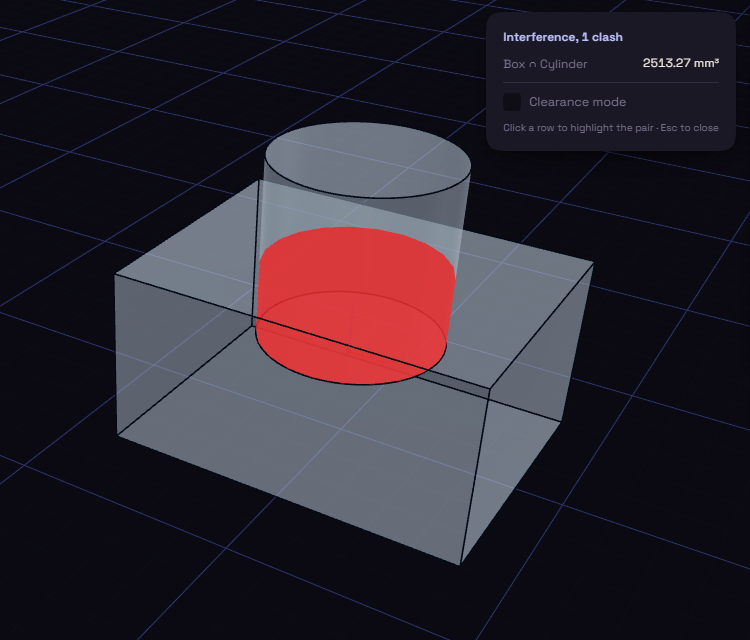
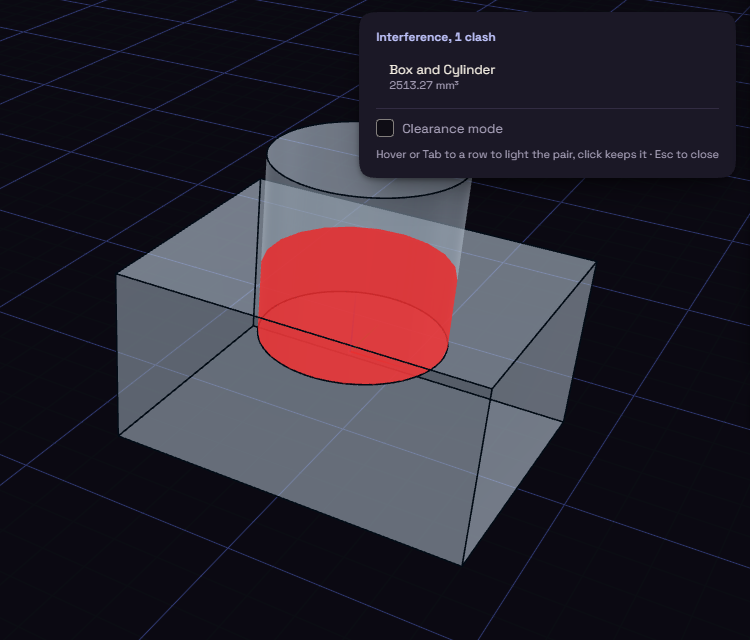
docs: The manual's Stress, Interference and Printability pictures show the new lists

diff --git a/manual/docs/inspect/interference.md b/manual/docs/inspect/interference.md
@@ -2,7 +2,7 @@
 
 Interference finds bodies that overlap, which you want to know before you print an assembly. It needs at least two bodies.
 
-![Interference panel naming one clash between a box and a cylinder, with the overlap drawn in red](../img/interference-list.png)
+![Interference panel with one clash row, Box and Cylinder with the volume of their overlap, drawn in red in the view](../img/interference-list.png)
 
 1. Under Inspect, open Analyze and pick Interference.
 2. Each row is a button that names a pair of bodies, such as Box and Lid, with the volume of their overlap. The overlap is drawn in red in the view.

diff --git a/manual/docs/inspect/stress-results.md b/manual/docs/inspect/stress-results.md
@@ -2,7 +2,7 @@
 
 When a run finishes, the Results tab opens. The part is coloured from low stress in dark violet to high stress in bright yellow, and drawn bent, larger than it really bends. Set up takes you back to the inputs.
 
-![The Stress panel listing peak stress, deflection and safety factor beside the bracket coloured blue to red](../img/stress-results.png)
+![The Stress panel listing safety factor, peak stress, deflection and where the highest values are, beside the bracket shaded dark violet, lightest at the gusset's tip](../img/stress-results.png)
 
 ## The verdict
 

diff --git a/manual/docs/inspect/printability.md b/manual/docs/inspect/printability.md
@@ -2,7 +2,7 @@
 
 Printability looks through the model and lists what is likely to go wrong when you print it. It comes with the [3D Printing Toolbox](../plugins/print-toolbox.md) plugin, under Print on the rail.
 
-![The Printability panel with its settings and two findings](../img/printability-panel.png)
+![The Printability panel with its settings and two overhang findings, each naming its face and height above the bed](../img/printability-panel.png)
 
 ## Run a check
 
